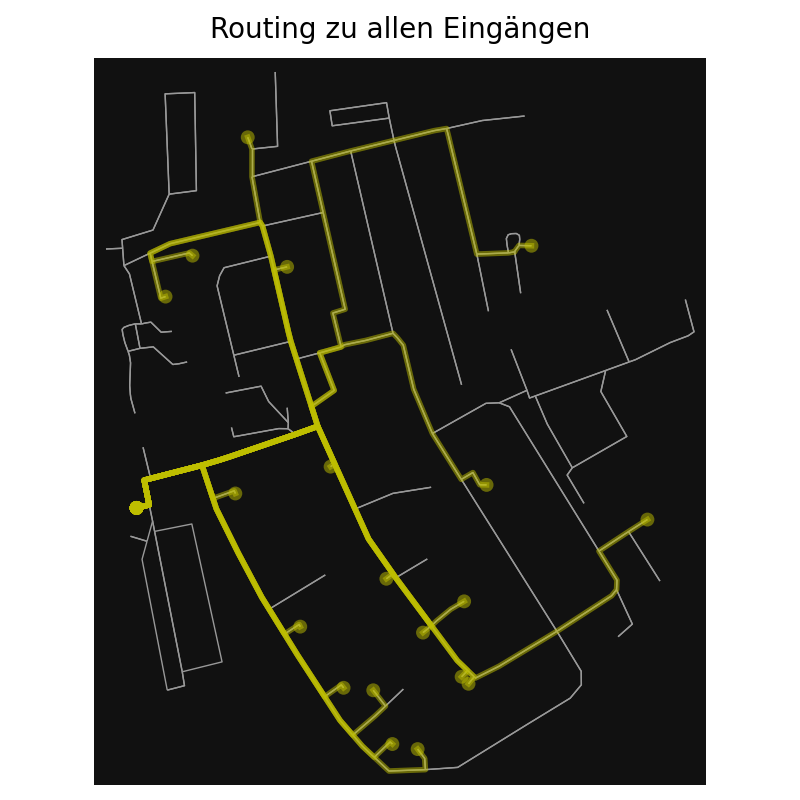
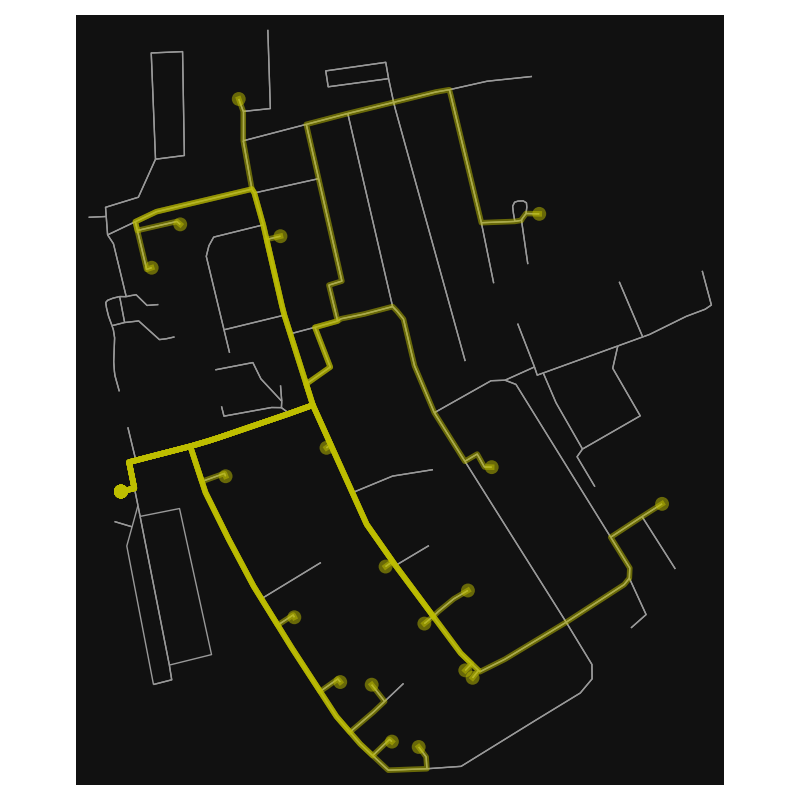
delete title

diff --git a/analysis/analysis.py b/analysis/analysis.py
@@ -67,7 +67,7 @@ ox.plot_graph_routes(G, routes, route_colors="y", route_linewidth=2, node_size=0
 # desciption of the plot
 
 
-fig.suptitle("Routing zu allen Eingängen", fontsize=20,color = "black")
+
 fig.tight_layout()
 
 #save as png
@@ -112,7 +112,7 @@ fig, ax = ox.plot_graph(G, show=False, close=False, node_size=0)
 # Plot all routes
 ox.plot_graph_routes(G, routes, route_colors="y", route_linewidth=2, node_size=0, ax=ax, show = False, close = False)
 
-fig.suptitle("Routing zu allen erreichbaren Eingängen", fontsize=20,color = "black")
+
 fig.tight_layout()
 
 
@@ -176,7 +176,7 @@ for i in range(len(tsp_path) - 1):  # Loop through pairs
 
 # Plot the optimized routes
 ox.plot_graph_routes(G, tsp_routes, route_colors="b", route_linewidth=2, node_size=0, ax=ax, show = False, close = False)
-fig.suptitle("Optimierte TSP Route", fontsize=20,color = "black")
+
 fig.tight_layout()
 
 # total travel time with v= 6 km/h
@@ -248,7 +248,6 @@ ox.plot.plot_graph(
     edge_color="#999999",
     ax=ax,
 )
-fig.suptitle("Isochrone Darstellung", fontsize=20,color = "black")
 fig.tight_layout()
 
 plt.show()
